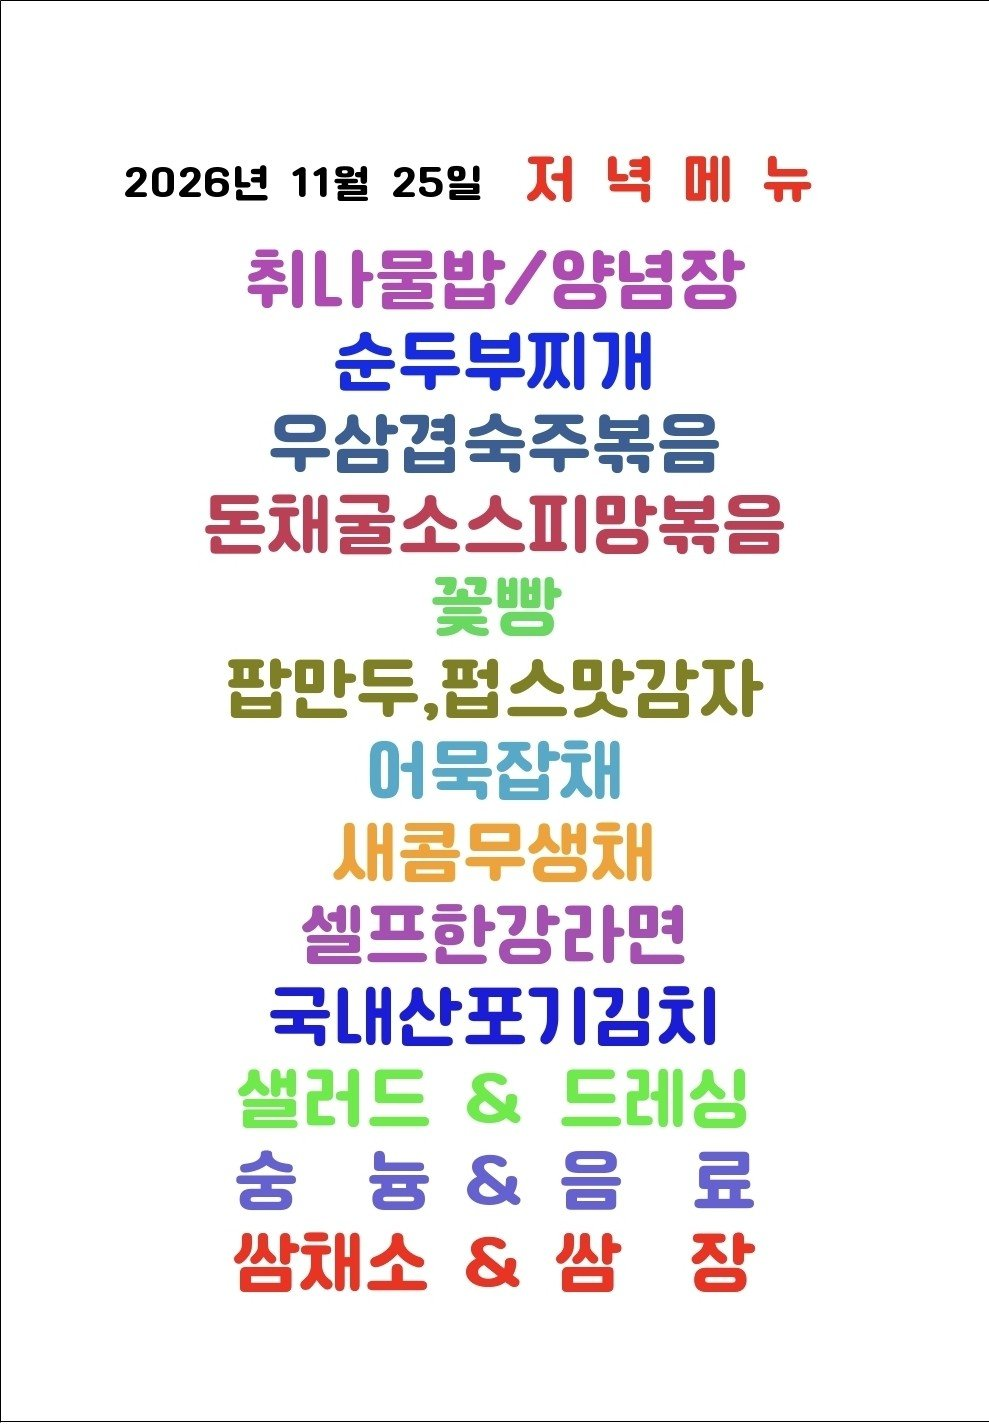
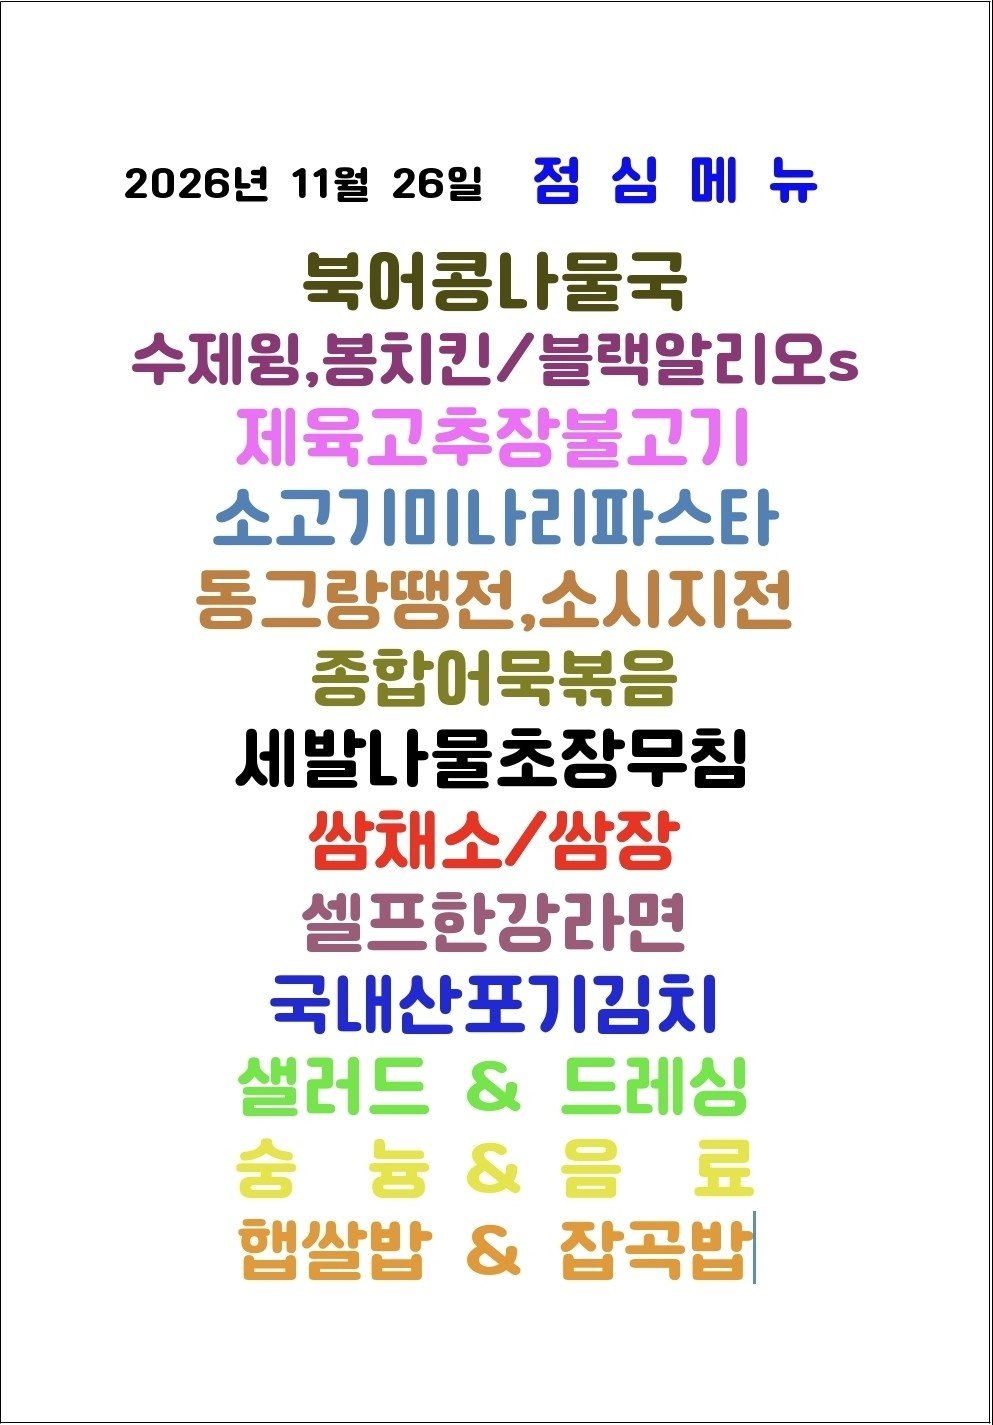
Update menu board assets

Changed region(s): [[0.1213, 0.0927, 0.8797, 0.927], [0.9707, 0.0, 1.0, 0.0309], [0.1517, 0.1236, 0.182, 0.1545]]

diff --git a/menu-today/index.html b/menu-today/index.html
@@ -209,7 +209,7 @@
 
     <section class="meta-bar">
       <div class="meta-card"><div class="meta-label">기준 날짜</div><div class="meta-value">2026년 11월 26일 목요일</div></div>
-      <div class="meta-card"><div class="meta-label">최종 가져온 시간</div><div class="meta-value">2026-11-26 10:03:54</div></div>
+      <div class="meta-card"><div class="meta-label">최종 가져온 시간</div><div class="meta-value">2026-11-26 10:13:38</div></div>
       <div class="meta-card"><div class="meta-label">확인 완료</div><div class="meta-value">9개 식당</div></div>
       <div class="meta-card"><div class="meta-label">준비중</div><div class="meta-value">3개 채널</div></div>
     </section>
@@ -265,7 +265,7 @@
             <div class="sub">가산비즈니스센터</div>
           </div>
         </div>
-        <div class="menu-inline-image"><img src="./images/raonfood.png" alt="구내식당라온푸드 식단 이미지"></div><div class="info-note">오늘 메뉴 미수집 상태입니다.</div>
+        <div class="menu-inline-image"><img src="./images/raonfood.png" alt="구내식당라온푸드 식단 이미지"></div><ul><li>북여콩나물국</li><li>수제윙,봄치킨 / 블랙알리오*</li><li>제육고주잠불고)!</li><li>종그람맹전,소시지전</li><li>종합며묵볶음</li><li>세발나물초잠무침</li><li>쌈재소 / 쌈잠</li><li>샐러드 &amp; 드레싱</li><li>북머콩나물국</li></ul>
       </article>
 
       <article class="restaurant-card">

diff --git a/guro-menu/index.html b/guro-menu/index.html
@@ -32,7 +32,7 @@
   </header>
   <section class="meta">
     <div><small>기준 날짜</small><strong>2026년 11월 26일 목요일</strong></div>
-    <div><small>최종 갱신</small><strong>2026-11-26 10:04:05</strong></div>
+    <div><small>최종 갱신</small><strong>2026-11-26 10:13:52</strong></div>
     <div><small>등록 식당</small><strong>5개</strong></div>
   </section>
   <div class="notice">공개 카카오 채널의 메뉴 이미지를 자동 수집하고 OCR로 정리합니다. 텍스트에 오타가 있을 수 있으니 식단 이미지를 함께 확인해 주세요.</div>
